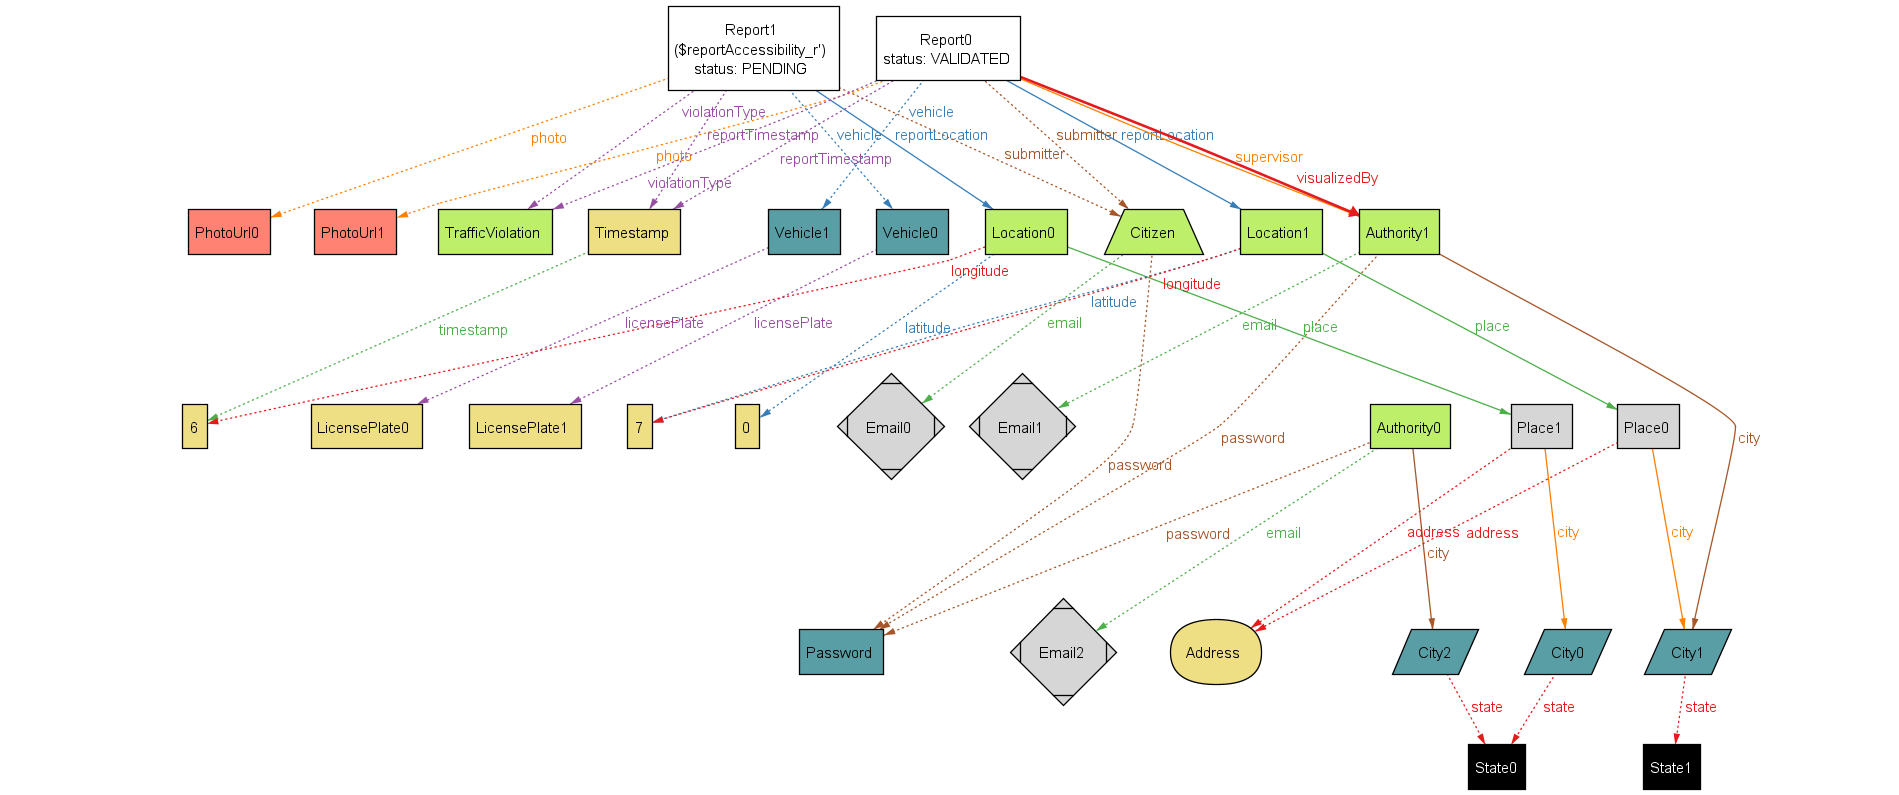
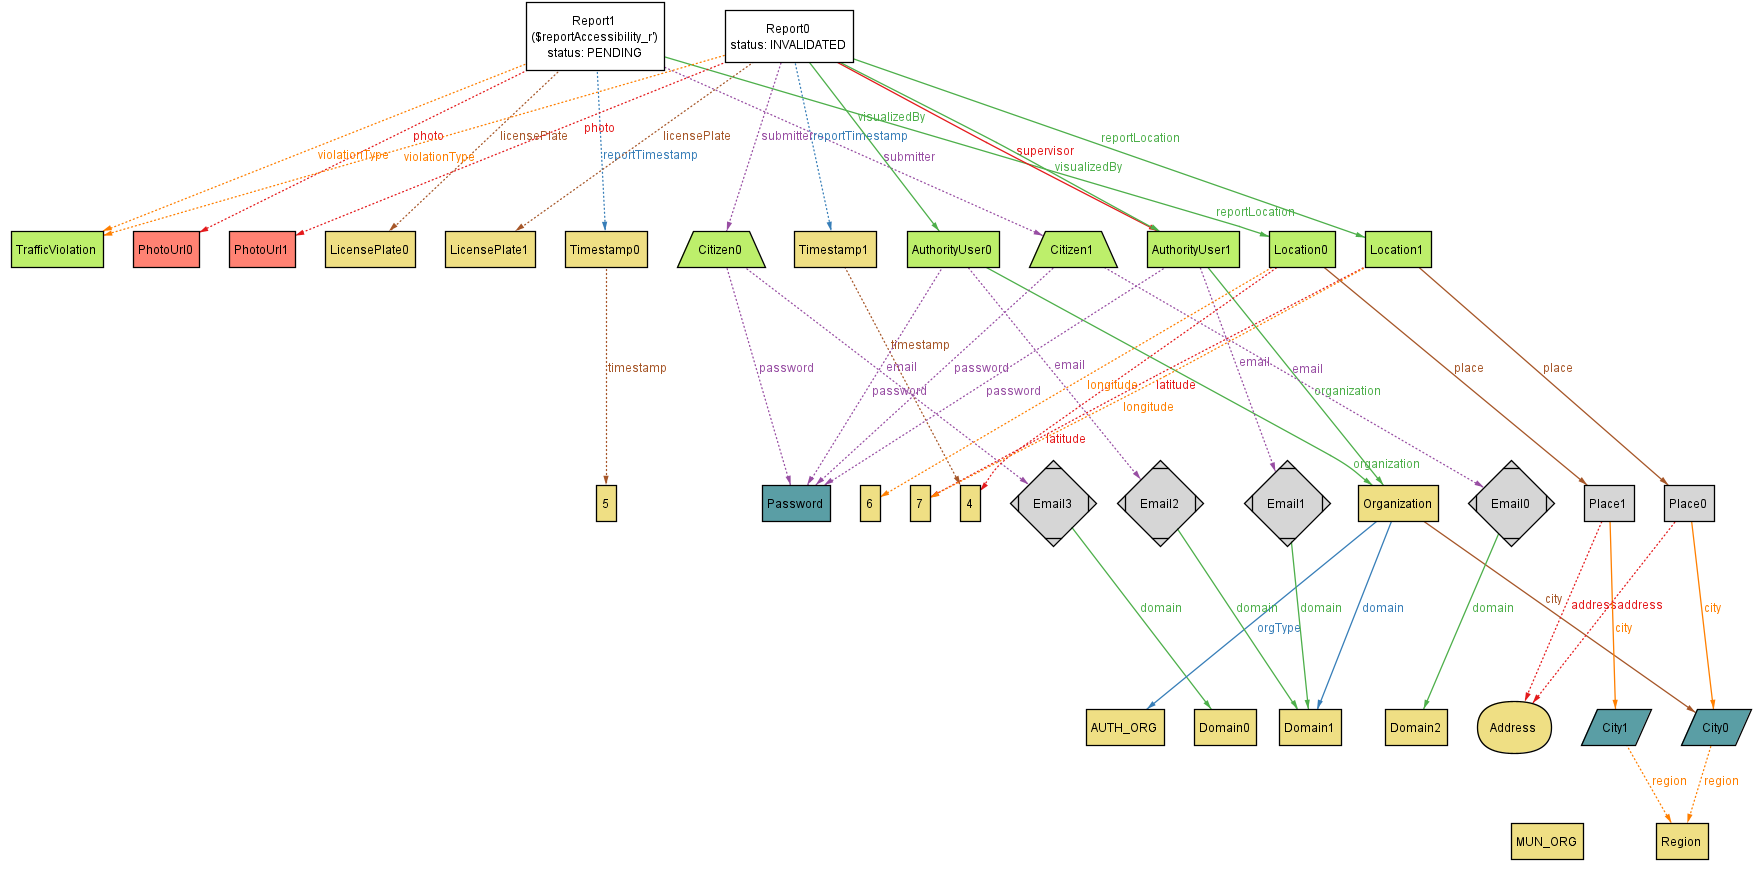
Final revision of both RASD and DD

diff --git a/Documentation/RASD/Sections/Alloy.tex b/Documentation/RASD/Sections/Alloy.tex
@@ -35,7 +35,7 @@ In the second world, there is one validated request, one invalidated request and
 	\caption{World 3}
 \end{figure}
 
-In the third world, we can check that an intervention can be seen only by municipality of the city in which the intervention is situated. As you can see, municipality1 can access intervention1 and intervention0 because their location is situated in the same city of it, same thing happens for intervention2 and municipality0. Some interventions can occur in the same location because different intervention type could be needed in that place.
+In the third world, we can check that an intervention can be seen only by municipality users that belong to the municipality of the city in which the intervention is situated. As you can see, municipalityUser0 can access intervention2 because its location is situated in the same city of its organization, same thing happens for municipalityUser1 and intervention0, intervention1. Some interventions can occur in the same location because different intervention type could be needed in that place.
 
 \begin{figure}[H]
 	\centering
@@ -43,4 +43,4 @@ In the third world, we can check that an intervention can be seen only by munici
 	\caption{World 4}
 \end{figure}
 
-In the fourth world, we can check that a report can be visualized only by authorities who have jurisdiction on that city. Another interesting relation is that report supervisor is of course an authority that can access it, also if a supervisor is present means that report is either validated or invalidated. If a report can't be accessed, clearly its status remain always pending because no authority can't change it.
+In the fourth world, we can check that a report can be visualized only by authority users who have jurisdiction on that city. Another interesting relation is that report supervisor is of course an authority that can access it, also if a supervisor is present means that report is either validated or invalidated. If a report can't be accessed, clearly its status remain always pending because no authority can't change it.

diff --git a/Documentation/RASD/Sections/RevisionHistory.tex b/Documentation/RASD/Sections/RevisionHistory.tex
@@ -31,4 +31,5 @@
 	\item Remove vehicle class from class diagram, because the system doesn't focus on getting vehicle data besides the license plate and so it's not necessary. Also make photo attribute an array (multiple photos were introduced in version 1.1), change city attribute from "state" to "region", as the system is now designed to work in Italy.
 	\item Remove vehicle entity and update worlds in alloy.
 	\item Add new requirement and updated slightly other requirements and goals to change the registration method of authorities and municipalities from an automatic one based on PEC (that was unfeasible because Italian PEC register put both municipality and local police under same ISTAT category) to a new registration method where institutions take contact with SafeStreets operators directly to register their PEC domains and info. Only after this passage the workers of this organizations can be recognized by the system and register correctly. Another reason for the change was to avoid single persons to register to the system even if their organization was not interested in the service. Other sections of the document are also updated and expanded to reflect this change.
+	\item Change Alloy model to conform to the changes explained in the previous point.
 \end{itemize}

diff --git a/Documentation/RASD/Sections/References.tex b/Documentation/RASD/Sections/References.tex
@@ -1,7 +1,11 @@
 \begin{itemize}
-	\item UML diagrams: \url{https://www.uml‐diagrams.org/}.
-    \item Alloy doc: \url{http://alloy.lcs.mit.edu/alloy/documentation/quickguide/seq.html}.
-    \item Info about GDPR: \url{https://en.wikipedia.org/wiki/General_Data_Protection_Regulation}.
-    \item List of mainstream browsers supporting AJAX: \url{https://jquery.com/browser-support/}.
-    \item \hypertarget{CircolarePEC}{Circolare n. 1/2010/DDI}: \url{http://www.iuav.it/Servizi-IU/servizi-ge1/Servizi-in/PEC/Circolare-1-2010---DDI_-PEC-nelle-PA.pdf}.
+	\item UML diagrams:\\
+	 \url{https://www.uml‐diagrams.org/}.
+    \item Alloy doc:\\
+     \url{http://alloy.lcs.mit.edu/alloy/documentation/quickguide/seq.html}.
+    \item Info about GDPR:\\
+    \url{https://en.wikipedia.org/wiki/General_Data_Protection_Regulation}.
+    \item List of mainstream browsers supporting AJAX:\\
+    \url{https://jquery.com/browser-support/}.
+    \item \hypertarget{CircolarePEC}{Circolare n. 1/2010/DDI}:\\ \url{http://www.iuav.it/Servizi-IU/servizi-ge1/Servizi-in/PEC/Circolare-1-2010---DDI_-PEC-nelle-PA.pdf}.
 \end{itemize}

diff --git a/Documentation/DD/Sections/RevisionHistory.tex b/Documentation/DD/Sections/RevisionHistory.tex
@@ -5,4 +5,5 @@
 	\item Specify better for which accounts are designed the different client in "Architectural design - overview", because the first mention to it was actually in the component view and could be misleading.
 	\item Change data tier description in "Architectural design - overview" to highlight that the DBMS is in high-availability. Also update the system architecture image according to the changes.
 	\item Update database, add organization entity and move name and surname to user entity instead of only citizen.
+	\item Minor changes and typos correction.
 \end{itemize}

diff --git a/Documentation/DD/Sections/References.tex b/Documentation/DD/Sections/References.tex
@@ -1,4 +1,5 @@
 \begin{itemize}
+	\item UML diagrams:\\ \url{https://www.uml‐diagrams.org/}.
 	\item Explanation on how an High-Availability Database (HA DB) works:\\
 	\url{https://raima.com/rdme-high-availability-database/}
 	\item A quick introduction about advantages of an asynchronous programming in web context:\\ \url{https://codewala.net/2015/07/29/concurrency-vs-multi-threading-vs-asynchronous-programming-explained/}.

diff --git a/Documentation/RASD/Sections/EffortSpent.tex b/Documentation/RASD/Sections/EffortSpent.tex
@@ -7,9 +7,9 @@ Andrea Falanti:
      Introduction & 8\\
      Overall Description & 14.25\\
      Specific Requirements & 16\\
-     Formal Analysis Using Alloy & 10.25\\
+     Formal Analysis Using Alloy & 10.75\\
      \hline
-     Total & 48.5\\
+     Total & 49\\
      \hline
 \end{tabular}
 \vskip 0.3in

diff --git a/Documentation/RASD/config.tex b/Documentation/RASD/config.tex
@@ -14,7 +14,7 @@
 %\usepackage{svg}
 \usepackage{enumitem}
 \usepackage{tabularx}
-\usepackage{hyperref}
+\PassOptionsToPackage{hyphens}{url}\usepackage{hyperref}
 \usepackage{etoolbox}
 \usepackage{array}
 \usepackage{subcaption}
